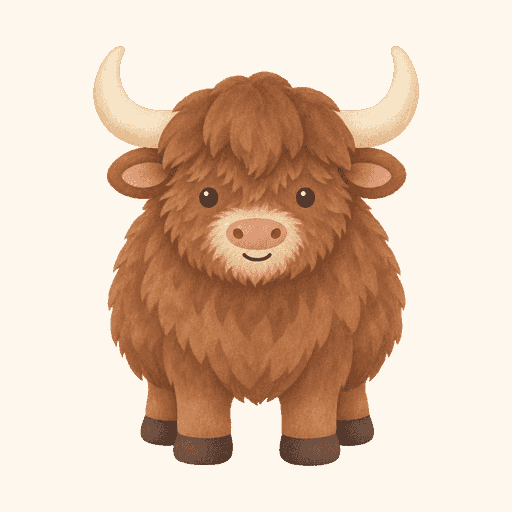
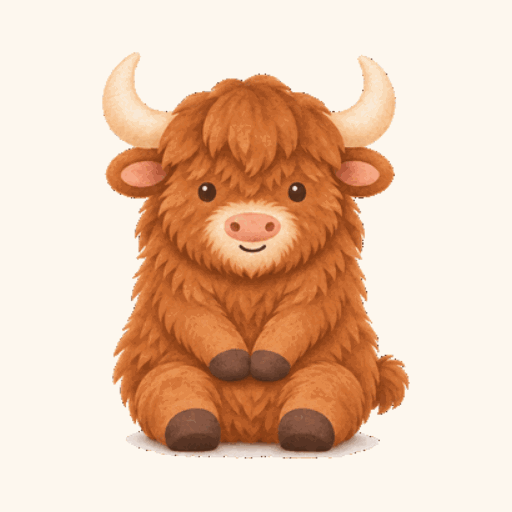
Every yaks.app mark is the seated yak, idling on the site's pages (T-144354)
The seated yak's rest frame (mascot/idle-rest-128, T-141234) is the mark in
the header of every page and in its footer, the dashboard's and the
Operator's corner, each idling through idle.js (mascot.ts `Idle`): drawn by
the first paint from the 1x rest frame, still for prefers-reduced-motion, and
a loop the browser will not decode ahead still plays once it loads. Drawn
pages (shell.ts) and every site page now load idle.js.

The favicon, the apple-touch icon, icon-192 and icon-512, the link preview
(og.svg, og.png), yak.webp, and the connector tile (connector.svg,
connector-512.png, yaks-app.png at 9.5 KB, under ChatGPT's 10 KB) are drawn
from his 512 px transparent rest frame (~/shared/yak-idle/idle/rest.png),
square, and the plugin's logo and icon are copied from them. Every file is
under 70 KB.

diff --git a/workers/yak/mascot.ts b/workers/yak/mascot.ts
@@ -12,6 +12,10 @@
 // greeting at 128 px and now and then does something small (T-141047): his
 // rest frame is public/mascot/idle-rest-128.webp and each loop
 // idle-<loop>-128.webp, at 128, 256 and 384 px. public/idle.js plays them.
+// Seated at rest, he is yaks.app's mark (T-144354): the header and footer of
+// every page, the dashboard's and the Operator's corner, and, drawn from the
+// same frame, the icons, the link preview (og.svg) and the connector's tile
+// (connector.svg).
 
 import { h } from 'preact'
 import { renderToString } from 'preact-render-to-string'
@@ -70,25 +74,27 @@ export let IDLE: Record<string, number> = {
   doze: 3550,
 }
 
-/** The yak waiting, 128 px across, with `className`: at rest, and with
- * public/idle.js every several seconds one of his loops (`IDLE`). */
-export let Idle = ({ class: className, base = '' }: {
-  class: string
+/** The yak waiting, `size` px across, with `className`: at rest, and with
+ * public/idle.js every several seconds one of his loops (`IDLE`). He is
+ * yaks.app's mark wherever a page shows it (T-144354). */
+export let Idle = ({ class: className, base = '', size = 128 }: {
+  class?: string
   base?: string
+  size?: number
 }) =>
   h('img', {
     class: className,
     src: `${base}/mascot/idle-rest-128.webp`,
     srcset: srcset('idle-rest-128', base),
-    width: 128,
-    height: 128,
+    width: size,
+    height: size,
     alt: '',
     'data-idle': Object.entries(IDLE).map(([loop, ms]) => `${loop}:${ms}`)
       .join(' '),
   })
 
 /** The yak waiting, as markup. */
-export let idle = (className: string, base = '') =>
+export let idle = (className?: string, base = '') =>
   renderToString(h(Idle, { class: className, base }))
 
 // What a step's first word shows the yak doing (@yaks/tools `stepOf`: "Checking

diff --git a/workers/yak/site/frame.tsx b/workers/yak/site/frame.tsx
@@ -7,9 +7,11 @@
 // The nav is the same places on every page (site_test.ts); the page a link
 // names marks it with aria-current, and the home page marks the name instead.
 // Signed in, a person reads "Open yaks.app" where "Sign in" is: the page
-// leaves with it (sheets.ts `sheeted`).
+// leaves with it (sheets.ts `sheeted`). The mark in both is the seated yak,
+// idling (mascot.ts `Idle`, idle.js); the home page's hero is its own.
 import type { ComponentChildren } from 'preact'
 import { Address } from '@yaks/ui'
+import { Idle } from '../mascot.ts'
 
 let SITE = 'https://yaks.app'
 let ALT = 'yaks.app: build an app by asking Claude or ChatGPT'
@@ -58,6 +60,7 @@ let Head = (
     <link rel='icon' href='favicon-32.png' type='image/png' sizes='32x32' />
     <link rel='apple-touch-icon' href='apple-touch-icon.png' />
     <link rel='stylesheet' href='style.css' />
+    <script src='idle.js' defer />
     {children}
   </head>
 )
@@ -79,7 +82,7 @@ let Top = ({ path }: { path: string }) => {
         aria-current={home ? 'page' : undefined}
         aria-label='yaks.app, home'
       >
-        {!home && <img class='Yak Yak-small' src='yak.webp' alt='' />}
+        {!home && <Idle class='Yak Yak-small' base='.' />}
         <span>yaks.app</span>
       </a>
       <nav class='Nav' aria-label='Site'>
@@ -106,6 +109,7 @@ let FOOT = [
 
 let Foot = () => (
   <footer class='Foot'>
+    <Idle class='Yak Yak-small' base='.' />
     <p>yaks.app · Yak Shaving LLC</p>
     <ul class='Foot_Links'>
       {FOOT.map(([href, said]) => (

diff --git a/workers/yak/shell.ts b/workers/yak/shell.ts
@@ -12,6 +12,7 @@ import { esc, markup } from './html.ts'
 import { type Host, url } from './host.ts'
 import { links } from './sheets.ts'
 import { island, signedIn } from './signed.ts'
+import { idle } from './mascot.ts'
 
 // What every drawn page wears in its head, in the shape the file pages wear it
 // (site/frame.tsx, site_test.ts): the title and the line, the canonical, the
@@ -49,7 +50,9 @@ ${links(env, 'style.css')}
 ${island}`
 
 export let top = `<header class="Top">
-<a class="Top_Name" href="/" aria-label="yaks.app, home"><img class="Yak Yak-small" src="/yak.webp" alt="" /><span>yaks.app</span></a>
+<a class="Top_Name" href="/" aria-label="yaks.app, home">${
+  idle('Yak Yak-small')
+}<span>yaks.app</span></a>
 <nav class="Nav" aria-label="Site">
 <a href="/#how">How it works</a>
 <a href="/gallery">Gallery</a>
@@ -61,6 +64,7 @@ ${signedIn}
 </header>`
 
 export let foot = `<footer class="Foot">
+${idle('Yak Yak-small')}
 <p>yaks.app · Yak Shaving LLC</p>
 <ul class="Foot_Links">
 <li><a href="/help">Help</a></li>
@@ -90,6 +94,6 @@ export let drawn = <P>(
   html(
     `${heads}\n</head>\n<body${body ? ` class="${body}"` : ''}>\n${top}\n${
       markup(main)
-    }\n${foot}\n</body>\n</html>`,
+    }\n${foot}\n<script src="/idle.js" defer></script>\n</body>\n</html>`,
     status,
   )

diff --git a/workers/yak/site_test.ts b/workers/yak/site_test.ts
@@ -129,6 +129,22 @@ test('every page wears the raster yak', () => {
       `${page} has no home-screen icon`,
     )
     assert(!html.includes('yak.svg'), `${page} still uses the old drawing`)
+    // The mark in the header (the home page's hero instead) and the footer is
+    // the seated yak, idling (idle.js).
+    let marks = document.querySelectorAll(
+      '.Top_Name img[data-idle], .Hello_Yak img[data-idle], .Foot img[data-idle]',
+    )
+    assertEquals(marks.length, 2, `${page} wears ${marks.length} idling marks`)
+    for (let img of marks) {
+      assertStringIncludes(
+        img.getAttribute('src')!,
+        'mascot/idle-rest-128.webp',
+      )
+    }
+    assert(
+      document.querySelector('script[src="idle.js"]'),
+      `${page} has no idle.js`,
+    )
   }
 })
 
@@ -161,7 +177,7 @@ test('the yak exports have their intended sizes and transparency', () => {
   // The opaque share card is not the yak alone: 1200×630 is what
   // every unfurler crops to, and og.svg beside it is what it is drawn from.
   png('og.png', 1200, 630, false)
-  webp('yak.webp', 352, 454)
+  webp('yak.webp', 384, 384)
   png('favicon-32.png', 32, 32)
   png('apple-touch-icon.png', 180, 180)
   png('icon-192.png', 192, 192)

diff --git a/workers/yak/site/home.tsx b/workers/yak/site/home.tsx
@@ -1,6 +1,7 @@
 /** @jsxImportSource preact */
 import { Button, Card } from '@yaks/ui'
 import { Data, Page, Yours } from './frame.tsx'
+import { Idle } from '../mascot.ts'
 
 // What an engine reads of the page.
 let data = {
@@ -142,7 +143,6 @@ export let Home = () => (
     head={
       <>
         <script src='carousel.js' defer />
-        <script src='idle.js' defer />
         <script src='wander.js' defer />
         <Data of={data} />
       </>
@@ -151,14 +151,7 @@ export let Home = () => (
     <section class='Hello' aria-labelledby='hello'>
       <div class='Hello_Copy'>
         <div class='Hello_Yak' data-wander=''>
-          <img
-            src='mascot/idle-rest-128.webp'
-            srcset='mascot/idle-rest-128-1x.webp 1x, mascot/idle-rest-128.webp 2x, mascot/idle-rest-128-3x.webp 3x'
-            width='128'
-            height='128'
-            alt=''
-            data-idle='glance:3370 ears:2070 tail:2380 stretch:2250 lick:2070 doze:3550'
-          />
+          <Idle base='.' />
         </div>
         <p class='Hello_Kicker'>Build, host and share web apps</p>
         <h1 class='Title Title-hero' id='hello'>

diff --git a/workers/yak/admin.ts b/workers/yak/admin.ts
@@ -63,6 +63,7 @@ import { caught } from './defects.ts'
 import { operatorDoor } from './build-door.ts'
 import { listed, type Worked } from './operator-view.ts'
 import { managePath } from './route.ts'
+import { Idle } from './mascot.ts'
 
 export let PATH = '/admin'
 
@@ -447,12 +448,7 @@ let desk = (
         h(
           'a',
           { class: 'Desk_Brand', href: url(d.env, '/') },
-          h('img', {
-            src: url(d.env, '/yak.webp'),
-            width: 36,
-            height: 36,
-            alt: '',
-          }),
+          h(Idle, { base: url(d.env), size: 40 }),
           'yaks.app',
         ),
         h(SideNav, { 'aria-label': 'Directory' }, nav),

diff --git a/workers/yak/operator-page.ts b/workers/yak/operator-page.ts
@@ -819,12 +819,7 @@ let side = (
       h(
         'a',
         { class: 'Talk_Brand', href: chatPath(space.slug) },
-        h('img', {
-          src: url(env, '/yak.webp'),
-          width: 28,
-          height: 28,
-          alt: '',
-        }),
+        h(Idle, { base: url(env), size: 32 }),
         'yaks.app',
       ),
       h(Button, { href: '#', class: 'Talk_Close' }, '✕ Close'),

diff --git a/workers/yak/public/pages.css b/workers/yak/public/pages.css
@@ -1180,11 +1180,6 @@
     font-weight: 800;
     text-decoration: none;
   }
-  /* The yak is taller than wide; it keeps its shape in the square box. */
-  .Desk_Brand img,
-  .Talk_Brand img {
-    object-fit: contain;
-  }
   /* Whose Operator this is (operator-page.ts `side`): the space, in the
      dashboard's selector, whose list stays inside the side it scrolls in. */
   .Talk_Whose {

diff --git a/workers/yak/gallery.ts b/workers/yak/gallery.ts
@@ -460,8 +460,8 @@ export let card = (a: Shown) =>
           src: '/yak.webp',
           alt: '',
           loading: 'lazy',
-          width: 352,
-          height: 454,
+          width: 384,
+          height: 384,
         }),
     ),
     a.about ? h(Card.Sub, null, a.about) : null,

diff --git a/workers/yak/public/style.css b/workers/yak/public/style.css
@@ -60,7 +60,11 @@
   }
 
   .Yak-small {
-    width: 2.25rem;
+    width: 2.75rem;
+  }
+
+  .Foot .Yak {
+    margin-inline: auto;
   }
 
   .Yak-big {
